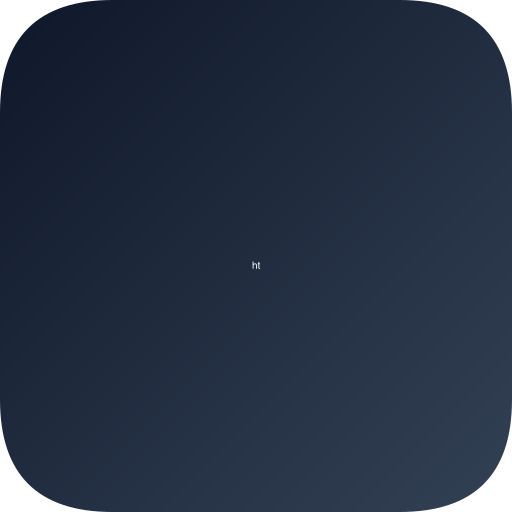
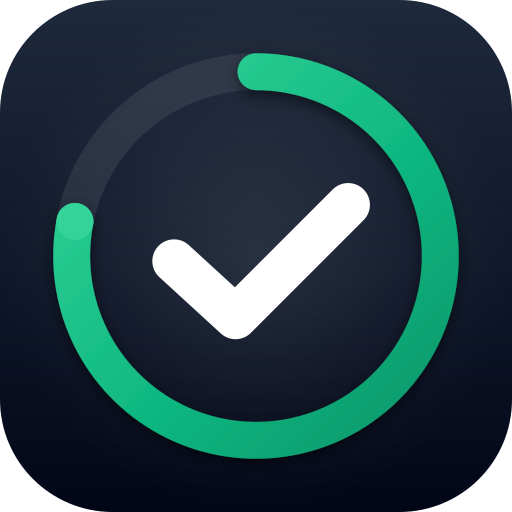
Replace 'ht' lockup with proper brand mark
Designed a checkmark-inside-a-progress-ring icon — instantly readable as
'habit tracking', strong silhouette at 32px favicon size, refined
slate→navy gradient tile with emerald progress arc.

- scripts/generate-icons.mjs: SVG → PNG via sharp, outputs icon-{192,512},
  apple-touch-icon (180), favicon-32, and the SVG source
- src/components/nav/Logo.tsx: inline SVG version of the same mark,
  swapped into Sidebar (mobile + desktop) and login page
- StreakShareButton: corner monogram rebuilt with the ring+check shape
  instead of 'ht' text so shared cards match
- layout.tsx: icon metadata picks up apple-touch + favicon-32
- sw.js: bumped CACHE_VERSION to ht-v3 so the new PNGs aren't cached

diff --git a/src/components/nav/Logo.tsx b/src/components/nav/Logo.tsx
@@ -1,0 +1,53 @@
+/**
+ * Inline logo mark — same visual language as the PWA icon (checkmark inside a
+ * progress ring), rendered as SVG so it scales crisply at any size and follows
+ * the theme. Used in the sidebar header and the mobile top bar.
+ */
+export function Logo({ size = 36 }: { size?: number }) {
+  return (
+    <svg
+      width={size}
+      height={size}
+      viewBox="0 0 64 64"
+      xmlns="http://www.w3.org/2000/svg"
+      aria-hidden="true"
+      className="shrink-0 drop-shadow-sm"
+    >
+      <defs>
+        <linearGradient id="logo-tile" x1="0" y1="0" x2="0" y2="1">
+          <stop offset="0%" stopColor="#1e293b" />
+          <stop offset="55%" stopColor="#0f172a" />
+          <stop offset="100%" stopColor="#020617" />
+        </linearGradient>
+        <linearGradient id="logo-ring" x1="0" y1="0" x2="1" y2="1">
+          <stop offset="0%" stopColor="#34d399" />
+          <stop offset="55%" stopColor="#10b981" />
+          <stop offset="100%" stopColor="#059669" />
+        </linearGradient>
+      </defs>
+      {/* Tile */}
+      <rect x="0" y="0" width="64" height="64" rx="14" ry="14" fill="url(#logo-tile)" />
+      {/* Track ring */}
+      <circle cx="32" cy="32" r="22" fill="none" stroke="#ffffff" strokeOpacity="0.10" strokeWidth="5" />
+      {/* Progress arc — same 78% sweep as the PNG icon */}
+      <path
+        d="M 32 10 A 22 22 0 1 1 14.95 41.39"
+        fill="none"
+        stroke="url(#logo-ring)"
+        strokeWidth="5"
+        strokeLinecap="round"
+      />
+      {/* Endpoint dot */}
+      <circle cx="14.95" cy="41.39" r="2.5" fill="#34d399" />
+      {/* Checkmark */}
+      <path
+        d="M 22 33 L 29 40 L 43 26"
+        fill="none"
+        stroke="#ffffff"
+        strokeWidth="5.5"
+        strokeLinecap="round"
+        strokeLinejoin="round"
+      />
+    </svg>
+  );
+}

diff --git a/src/components/StreakShareButton.tsx b/src/components/StreakShareButton.tsx
@@ -115,15 +115,34 @@ function drawCard(canvas: HTMLCanvasElement, p: Props) {
   const urlW = ctx.measureText(url).width;
   ctx.fillText(url, W - 64 - urlW, H - 50);
 
-  // Small ht monogram in corner
-  ctx.fillStyle = "rgba(255,255,255,0.08)";
+  // Logo mark (checkmark in progress ring) in corner — matches the PWA icon
+  const mr = 12, mx = W - 64 - 56, my = H - 76, ms = 48;
+  ctx.fillStyle = "rgba(255,255,255,0.10)";
   ctx.beginPath();
-  const mr = 16, mx = W - 64 - 64, my = H - 70;
-  ctx.roundRect(mx, my, 48, 48, mr);
+  ctx.roundRect(mx, my, ms, ms, mr);
   ctx.fill();
-  ctx.fillStyle = "rgba(255,255,255,0.85)";
-  ctx.font = "900 22px -apple-system, system-ui, sans-serif";
-  ctx.fillText("ht", mx + 9, my + 13);
+  // Progress ring (78% arc, starting at top)
+  const lcx = mx + ms / 2, lcy = my + ms / 2, r = ms * 0.32;
+  ctx.strokeStyle = "rgba(255,255,255,0.15)";
+  ctx.lineWidth = 3;
+  ctx.beginPath();
+  ctx.arc(lcx, lcy, r, 0, Math.PI * 2);
+  ctx.stroke();
+  ctx.strokeStyle = "#34d399";
+  ctx.lineWidth = 3;
+  ctx.lineCap = "round";
+  ctx.beginPath();
+  ctx.arc(lcx, lcy, r, -Math.PI / 2, -Math.PI / 2 + Math.PI * 2 * 0.78);
+  ctx.stroke();
+  // Checkmark
+  ctx.strokeStyle = "#ffffff";
+  ctx.lineWidth = 3.5;
+  ctx.lineJoin = "round";
+  ctx.beginPath();
+  ctx.moveTo(lcx - 8, lcy + 1);
+  ctx.lineTo(lcx - 2, lcy + 7);
+  ctx.lineTo(lcx + 9, lcy - 5);
+  ctx.stroke();
 }
 
 export function StreakShareButton(props: Props) {

diff --git a/src/components/nav/Sidebar.tsx b/src/components/nav/Sidebar.tsx
@@ -5,6 +5,7 @@ import { usePathname } from "next/navigation";
 import { useState } from "react";
 import { logout } from "@/app/login/actions";
 import { ThemeControls } from "./ThemeControls";
+import { Logo } from "./Logo";
 
 const NAV = [
   {
@@ -63,9 +64,7 @@ export function Sidebar({ email, displayName }: { email: string; displayName: st
       {/* Mobile top bar */}
       <div className="lg:hidden flex items-center justify-between px-4 h-14 border-b border-slate-200 bg-white sticky top-0 z-30">
         <div className="flex items-center gap-2.5">
-          <div className="w-8 h-8 rounded-lg bg-gradient-to-br from-slate-900 to-slate-700 flex items-center justify-center text-white font-bold text-xs">
-            ht
-          </div>
+          <Logo size={32} />
           <span className="font-bold text-slate-900 tracking-tight">habit-tracker</span>
         </div>
         <button
@@ -92,9 +91,7 @@ export function Sidebar({ email, displayName }: { email: string; displayName: st
         }`}
       >
         <div className="h-16 flex items-center gap-3 px-6 border-b border-slate-200">
-          <div className="w-9 h-9 rounded-xl bg-gradient-to-br from-slate-900 to-slate-700 flex items-center justify-center text-white font-bold text-sm shadow-sm">
-            ht
-          </div>
+          <Logo size={36} />
           <div>
             <h1 className="font-bold text-slate-900 tracking-tight leading-none">
               habit-tracker

diff --git a/src/app/login/page.tsx b/src/app/login/page.tsx
@@ -1,4 +1,5 @@
 import { login, signup } from "./actions";
+import { Logo } from "@/components/nav/Logo";
 
 export default function LoginPage({
   searchParams,
@@ -18,9 +19,7 @@ async function LoginForm({
     <main className="min-h-screen flex items-center justify-center bg-gradient-to-br from-slate-100 via-slate-50 to-stone-100 p-4">
       <div className="w-full max-w-sm">
         <div className="flex items-center justify-center gap-3 mb-6">
-          <div className="w-11 h-11 rounded-xl bg-gradient-to-br from-slate-900 to-slate-700 flex items-center justify-center text-white font-bold shadow-lg shadow-slate-900/20">
-            ht
-          </div>
+          <Logo size={56} />
         </div>
         <div className="bg-white rounded-2xl shadow-xl shadow-slate-900/5 ring-1 ring-slate-200/70 p-8">
           <h1 className="text-2xl font-bold text-slate-900 tracking-tight mb-1">

diff --git a/src/app/layout.tsx b/src/app/layout.tsx
@@ -26,10 +26,12 @@ export const metadata: Metadata = {
   },
   icons: {
     icon: [
+      { url: "/favicon-32.png", sizes: "32x32", type: "image/png" },
       { url: "/icon-192.png", sizes: "192x192", type: "image/png" },
       { url: "/icon-512.png", sizes: "512x512", type: "image/png" },
     ],
-    apple: [{ url: "/icon-192.png", sizes: "192x192", type: "image/png" }],
+    shortcut: [{ url: "/favicon-32.png" }],
+    apple: [{ url: "/apple-touch-icon.png", sizes: "180x180", type: "image/png" }],
   },
 };
 

diff --git a/public/sw.js b/public/sw.js
@@ -1,5 +1,5 @@
 // habit-tracker service worker — offline shell + push notifications.
-const CACHE_VERSION = "ht-v2";
+const CACHE_VERSION = "ht-v3";
 const SHELL_ASSETS = [
   "/manifest.json",
   "/icon-192.png",